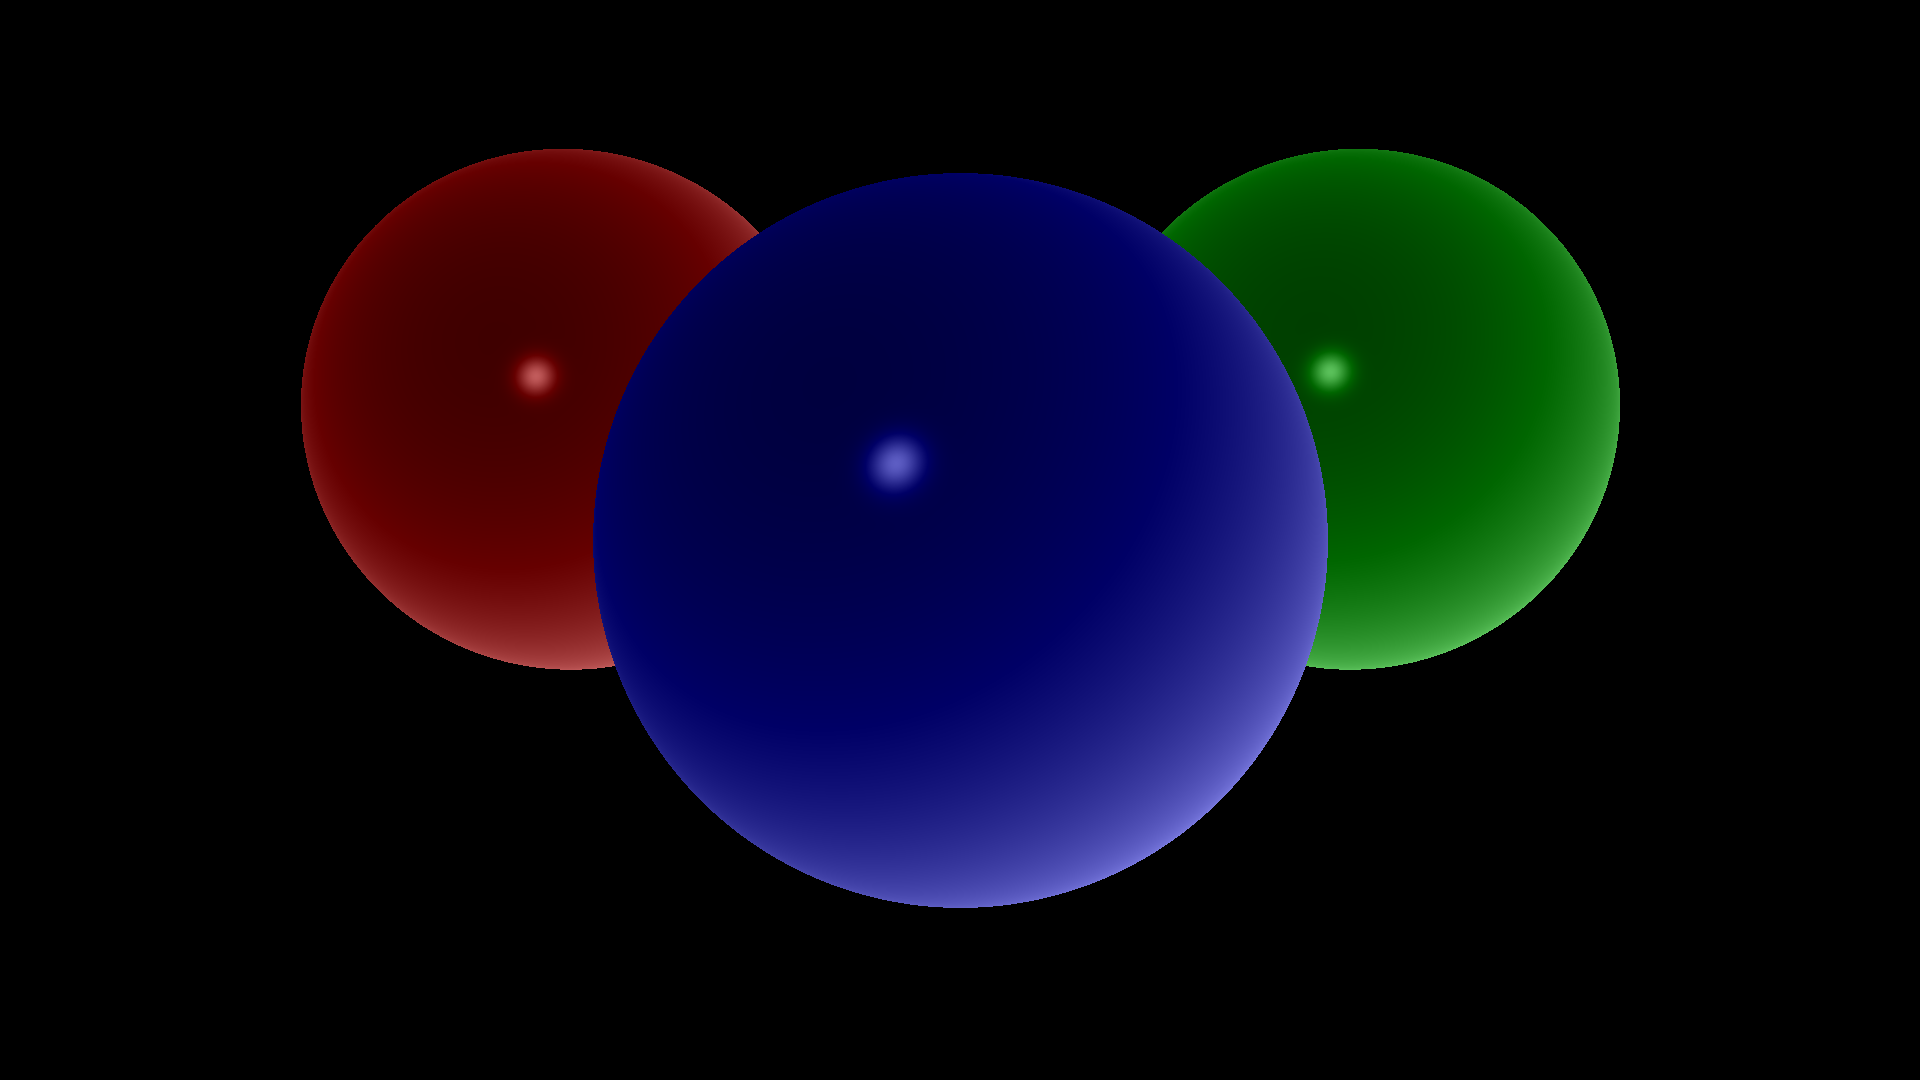
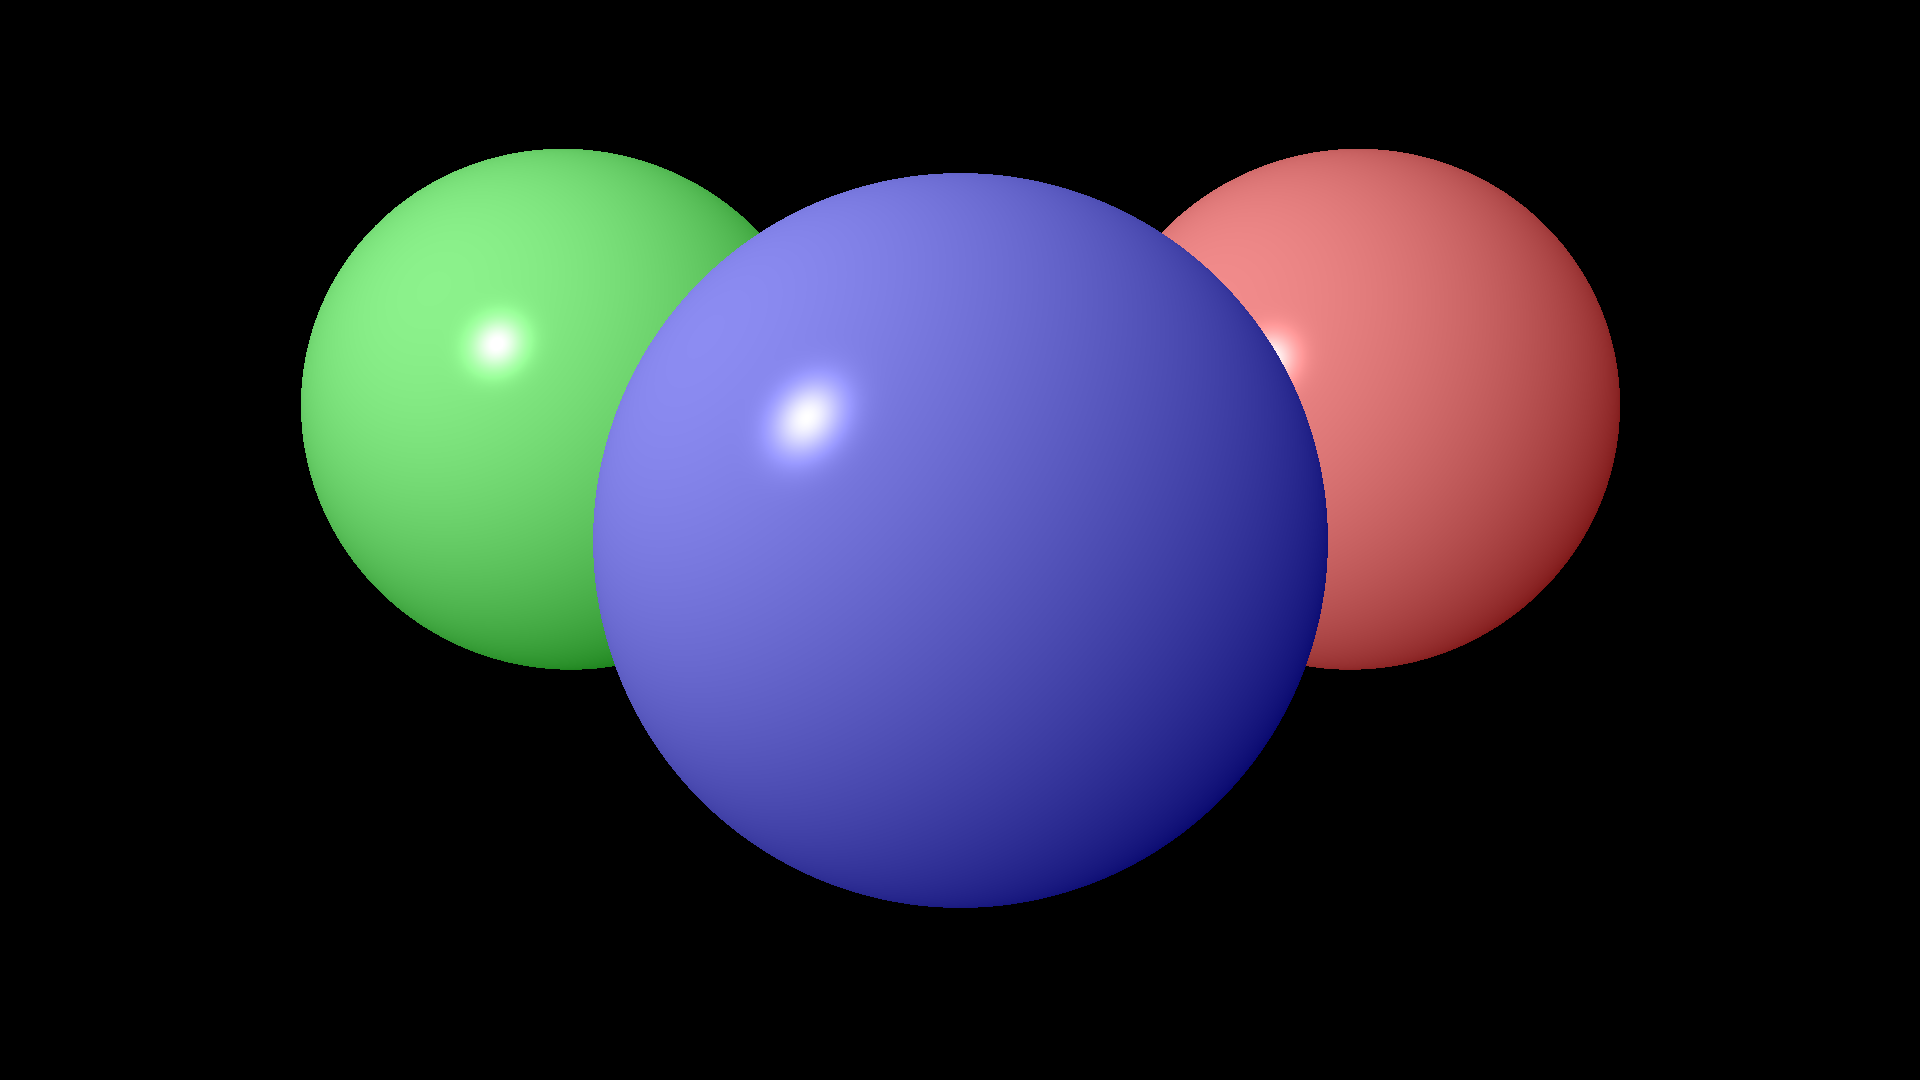
actually fixed phong model....

diff --git a/sandbox/rusty_tracer/src/main.rs b/sandbox/rusty_tracer/src/main.rs
@@ -17,8 +17,8 @@ use indicatif::ProgressBar;
 use indicatif::ProgressStyle;
 
 //-- TODO For Need!
-//-- 0. Clean up!!! Make things more dynamically testable during runtime... 
-//-- 1. Implement "Display" trait for easier printing? Over / with stringable?
+//-- 0. Clean up!!! Don't use just one main file.....lol
+//-- 1. Implement Display" trait for easier printing? Over / with stringable?
 //-- 2. Image is upside down! Whoops!
 //-- 3. Package Phong light instrinsics inside of light struct
 //-- 4. Add multi-light support
@@ -49,7 +49,7 @@ fn main() {
     
     let v1 = Vec3{x: 1.5, y: -2.5, z: 0.0};
     let v2 = Vec3{x: 0.5, y: 10.0, z: 2.2};
-    let m1 = Mat3::gen_roty((PI/2048.0));
+    let m1 = Mat3::gen_roty((PI/360.0));
     let m2 = Mat3::gen_roty(-(PI/2048.0));
 
     //-- TEST: printing and operator overloads
@@ -70,29 +70,16 @@ fn main() {
     //-- scene data init
     let mut r1 = Ray{origin: Point{x:0.0,y:0.0,z:-5.0}, dir: Vec3{x:0.0, y:0.0, z:1.0}};   
     let mut s1: Sphere = Sphere{cen: Point{x:0.0, y:0.0, z:4.0}, r: 4.0, def_color: Point{x: 0.2, y: 0.2, z: 0.6}};     //-- blue sphere, mid cen
-    let mut s2: Sphere = Sphere{cen: Point{x:6.0, y:-2.0, z: 12.0}, r: 4.0, def_color: Point{x: 0.6, y: 0.2, z: 0.2}};    //-- red sphere, back r
-    let mut s3: Sphere = Sphere{cen: Point{x:-6.0, y:-2.0, z:12.0}, r: 4.0, def_color: Point{x: 0.2, y: 0.6, z: 0.2}};   //-- green sphere, front l
+    let mut s2: Sphere = Sphere{cen: Point{x:6.0, y:2.0, z: 12.0}, r: 4.0, def_color: Point{x: 0.6, y: 0.2, z: 0.2}};   //-- red sphere, back r
+    let mut s3: Sphere = Sphere{cen: Point{x:-6.0, y:2.0, z:12.0}, r: 4.0, def_color: Point{x: 0.2, y: 0.6, z: 0.2}};   //-- green sphere, front l
     let mut dummy_s: Sphere = Sphere::default();
     
-    //-- file + png encoder/writer
-    let path = Path::new("output/image.png");
-    let file = File::create(path).unwrap();
-    let ref mut w = BufWriter::new(file);
-    let mut encoder = png::Encoder::new(w, img_w, img_h);
-    encoder.set_color(png::ColorType::RGB);
-    encoder.set_depth(png::BitDepth::Eight);
-    let mut writer = encoder.write_header().unwrap();
-
-    //-- pixel buffer
-    let mut img_buffer: Vec<u8> = Vec::new();
-    
-    //-- progress bar
-    println!("\n\nRendering...");
-    let pbar = ProgressBar::new(img_h.into());
-    pbar.set_style(ProgressStyle::default_bar().template("[{elapsed_precise}] [{bar:50.green/cyan}] {msg} {percent}%").progress_chars("=>#"));
-    
     //-- light source
-    let mut bulb = Sphere{cen: Point{x:-5.0, y:6.0, z: -5.0}, r: 0.1, def_color: Point{x: 1.0, y: 1.0, z: 1.0}};
+    let mut bulb1 = PointLight{pos: Point{x:-12.5,y:10.0,z:-8.0}, id: Point{x:1.0,y:1.0,z:1.0}, is: Point{x:1.0,y:1.0,z:1.0}};
+    let mut bulb2 = PointLight{pos: Point{x:0.0,y:0.0,z:-5.0}, id: Point{x:1.0,y:1.0,z:1.0}, is: Point{x:1.0,y:1.0,z:1.0}};
+    let mut lights: Vec<&mut PointLight> = Vec::new();
+    lights.push(&mut bulb1);
+    //lights.push(&mut bulb2);
 
     //-- scene: vector of mutable references   
     let mut scene: Vec<&mut Sphere> = Vec::new();
@@ -101,93 +88,152 @@ fn main() {
     scene.push(&mut s3);
     //scene.push(& bulb);                           //NOTE: iss2. remove light from scene objs
 
-    //-- launch rays
-    //- launches left->right | top->bottom by step size (prop to img size)
-    let mut cool_ray = Ray{origin: cam.pos, dir: Vec3{x: -0.5 * cam.w, y: 0.5 * cam.h, z: cam.pos.z + cam.focl}};
-    for y in 0..img_h {
-        for x in 0..img_w {
-            
-            let mut first_hit: bool = true;
-            let mut closest_hit: HitInfo = HitInfo{ip: Point::default(), norm: Point::default(), obj: &dummy_s};    //-- dummy init to avoid compile errors  
-            let mut color: Color = Color::default();
-                    
-            for obj in &mut scene{                                                                                  //-- for each object in scene....
-                   
-                match obj.hits(&cool_ray) {                                                                         //-- check for a hit
-                    Some(hit_rec) => {
+    //-- frame loop
+    let frames = 1;
+    for frame in 0..frames{
 
-                        if first_hit {                                                                              //-- if first hit for this ray, init hit ptr
-                            first_hit = false;
-                            closest_hit = hit_rec;
+        //-- file + png encoder/writer
+        let mut pathstr = String::from("output/frame_".to_owned() + &frame.to_string() + ".png");
+        if frames == 1{
+            pathstr = String::from("output/image.png");
+        }
+        let path = Path::new(&pathstr);
+        let file = File::create(path).unwrap();
+        let ref mut w = BufWriter::new(file);
+        let mut encoder = png::Encoder::new(w, img_w, img_h);
+        encoder.set_color(png::ColorType::RGB);
+        encoder.set_depth(png::BitDepth::Eight);
+        let mut writer = encoder.write_header().unwrap();
+
+        //-- pixel buffer
+        let mut img_buffer: Vec<u8> = Vec::new();
+        
+        //-- progress bar
+        println!("\n\nRendering frame {} ...", frame.to_string());
+        let pbar = ProgressBar::new(img_h.into());
+        pbar.set_style(ProgressStyle::default_bar().template("[{elapsed_precise}] [{bar:50.green/cyan}] {msg} {percent}%").progress_chars("=>#"));
+        
+        //-- launch rays
+        //- launches right-left <- | ^ bottom-top by step size (prop to img size)
+        let mut cool_ray = Ray{origin: cam.pos, dir: Vec3{x: 0.5 * cam.w, y: -0.5 * cam.h, z: cam.pos.z + cam.focl}};
+        for y in 0..img_h {
+            for x in 0..img_w {
+                
+                let mut first_hit: bool = true;
+                let mut closest_hit: HitInfo = HitInfo{ip: Point::default(), norm: Point::default(), obj: &dummy_s};    //-- dummy init to avoid compile errors  
+                let mut color: Color = Color::default();
                         
-                        } else {                                                                                    //-- if not, determine closer hit to cam and set
-                            if (hit_rec.ip - cam.pos).mag() < (closest_hit.ip - cam.pos).mag() {
+                for obj in &mut scene{                                                                                  //-- for each object in scene....
+                       
+                    match obj.hits(&cool_ray) {                                                                         //-- check for a hit
+                        Some(hit_rec) => {
+
+                            if first_hit {                                                                              //-- if first hit for this ray, init hit ptr
+                                first_hit = false;
                                 closest_hit = hit_rec;
+                            
+                            } else {                                                                                    //-- if not, determine closer hit to cam and set
+                                if (hit_rec.ip - cam.pos).mag() < (closest_hit.ip - cam.pos).mag() {
+                                    closest_hit = hit_rec;
+                                }
                             }
+                        
+                            color = phong_single_src(&closest_hit, &cam, &lights);                                        //-- calculate color w/ Phong model
                         }
-                    
-                        color = phong_single_src(&closest_hit, &cam, &bulb);                                        //-- calculate color w/ Phong model
+                        None => {}
                     }
-                    None => {}
                 }
+                
+                //scene[1].cen = m1 * scene[1].cen;     //-- can mutate scene data mid-render for effects                                                       
+                //scene[2].cen = m1 * scene[2].cen;                                                           
+                img_buffer.push(color.r); img_buffer.push(color.g); img_buffer.push(color.b);                           //--write color to buffer
+                cool_ray.dir.x -= step;
             }
             
-            //scene[1].cen = m1 * scene[1].cen;     //-- can mutate scene data mid-render for effects                                                       
-            //scene[2].cen = m1 * scene[2].cen;                                                           
-            img_buffer.push(color.r); img_buffer.push(color.g); img_buffer.push(color.b);                           //--write color to buffer
-            cool_ray.dir.x += step;
+            cool_ray.dir.x = 0.5 * cam.w;
+            cool_ray.dir.y += step;
+
+            pbar.inc(1);
         }
-        
-        cool_ray.dir.x = -0.5 * cam.w;
-        cool_ray.dir.y -= step;
 
-        pbar.inc(1);
+        //-- cleanup progress bar
+        pbar.finish();
+
+        //-- convert buff and write to png
+        println!("\nRender complete! Writing image...");
+        let d: &[u8] = &img_buffer;
+        writer.write_image_data(d).unwrap();
+
+        //-- video gen... after each frame, rotate the ball by PI/60.0
+        //scene[0].cen = m1 * scene[0].cen;                                                  
+        //scene[1].cen = m1 * scene[1].cen;
+        //scene[2].cen = m1 * scene[2].cen;
+
+        //-- lifetime testing ...
+        //println!("Closest hit lifetime test: {}", closest_hit.ip.stringy());
     }
-
-    //-- cleanup progress bar
-    pbar.finish();
-
-    //-- convert buff and write to png
-    println!("\nRender complete! Writing image...");
-    let d: &[u8] = &img_buffer;
-    writer.write_image_data(d).unwrap();
-
-    //-- lifetime testing ...
-    //println!("Closest hit lifetime test: {}", closest_hit.ip.stringy());
 }
 
 // <<<<<<<<<<<<<<<<<<<<  HELPER TRAITS, STRUCTS, IMPLS, ETC. >>>>>>>>>>>>>>>>>>>>>>>>>>>>>>>>>>>>>>
 
 //---- Phong Reflection / Shading Model
-fn phong_single_src(hit_rec: &HitInfo, cam: &Camera, light: &Sphere) -> Color{
+//-- Phong Light Model --> illumination at point = sum of ambient, diffuse, and specular light
+//- for multiple lights, sum diffuse + specular with respect to each light
+fn phong_single_src(hit_rec: &HitInfo, cam: &Camera, lights: &Vec<&mut PointLight>) -> Color{
 
-    //-- calculate vectors for Phong model comp
-    let n: Vec3 = hit_rec.norm.unit();                  //- normalized normal
-    let lv: Vec3 = (light.cen - hit_rec.ip).unit();     //- hit pt -> light
-    let rv: Vec3 = 2.0 * lv.dot(n) * n - lv;            //- perfect light reflection at hit pt
-    let cv: Vec3 = (cam.pos - hit_rec.ip).unit();       //- hit pt -> camera "eye"
-
-    //-- respective light colors 
-    let ia = Point{x:1.0 , y: 1.0, z: 1.0};             //- actually colors, but need to use floats
-    let id = Point{x:1.0 , y: 1.0, z: 1.0};
-    let is = Point{x:1.0 , y: 1.0, z: 1.0};
-
-    //-- test material light constants
-    let ka = 0.05;
-    let kd = 0.4;
+    //-- temp/test material light constants
+    let kd = 0.3;
     let ks = 0.5;
-    let alpha = 100.0;                                  //- "shininess" factor
+    let alpha = 50.0;                                  //- "shininess" factor
     
-    //-- Phong Light Model --> illumination at point = sum of ambient, diffuse, and specular light
-    //--- for multiple lights, sum diffuse + specular with respect to each light
+    //-- global ambient vals + ambient light calc
+    let ia = Point{x:1.0 , y: 1.0, z: 1.0};             //- actually colors, but need to use floats
+    let ka = 0.05;
     let ambient = ka * ia;
-    let diffuse = (kd * (lv.dot(n)) * is);
-    let specular = (ks * (rv.dot(cv).clamp( 0.0, 1.0).powf(alpha) * is));           //-- NOTE: need to clamp dot product to prevent dual specular
 
-    let illu = ambient + diffuse + specular + hit_rec.obj.def_color;                //-- sum lights + base color of hit object
+    //-- init illumination (ambient light + base object color)
+    let mut illu = ambient + hit_rec.obj.def_color;
+
+    //-- loop through lights --> calculate diffuse + specular contributions for each
+    for light in lights{
+
+        //-- calculate vectors for Phong model comp
+        let n: Vec3 = hit_rec.norm.unit();                  //- normalized normal
+        let lv: Vec3 = (light.pos - hit_rec.ip).unit();     //- hit pt -> light
+        let rv: Vec3 = 2.0 * lv.dot(n) * n - lv;            //- perfect light reflection at hit pt
+        let cv: Vec3 = (cam.pos - hit_rec.ip).unit();       //- hit pt -> camera "eye"
+    
+        //-- get respective light intensities
+        let id = light.id;
+        let is = light.is;
+
+        //-- calc diffuse/specular light
+        let diffuse = (kd * (lv.dot(n)) * is);
+        let specular = (ks * (rv.dot(cv).clamp( 0.0, 1.0).powf(alpha) * is));       //-- need to clamp dot product to prevent dual specular
+
+        // TODO: debug why phong lighting on z-axis is inverse, eg. light at -10 does not shine on
+        // front of sphere as it should
+        
+
+        illu = illu + diffuse + specular;                                                 //-- sum lights + base color of hit object
+    }
 
     //-- normalize color to RGB 0-255 space and return
     Color{r: (illu.x * 255.0) as u8 ,g: (illu.y * 255.0) as u8 , b: (illu.z * 255.0) as u8}
+}
+
+//----- Light Struct
+struct PointLight{
+    pos: Point,
+    id: Point,
+    is: Point
+
+} impl PointLight {
+    
+    pub fn new() -> PointLight{
+        PointLight{pos: Point::default(), id: Point{x:1.0,y:1.0,z:1.0}, is: Point{x:1.0,y:1.0,z:1.0}}
+    }
+
 }
 
 //---- Stringable: Implemented by objects to get description
@@ -371,7 +417,7 @@ struct Sphere{
 
         } else if discrim >= 0.01{                                                      //-- 2x hit handling
     
-            let t = (-2.0 * (ray.dir.dot(ray.origin - self.cen)) - discrim.sqrt())  / (2.0 * ray.dir.mag().powf(2.0));   //- solve for t (want closer hit)
+            let t = (-2.0 * (ray.dir.dot(ray.origin - self.cen)) + discrim.sqrt())  / (2.0 * ray.dir.mag().powf(2.0));   //- solve for t (want closer hit)
             Some(HitInfo{ip: ray.at(t), norm: ray.at(t) - self.cen, obj: &self})                                            //- solve for incident pt + norm
 
         } else {                //-- miss handling
@@ -379,6 +425,7 @@ struct Sphere{
         }
     }
 }
+
 
 //---- Hit Info -----
 #[derive(Copy, Clone)]
